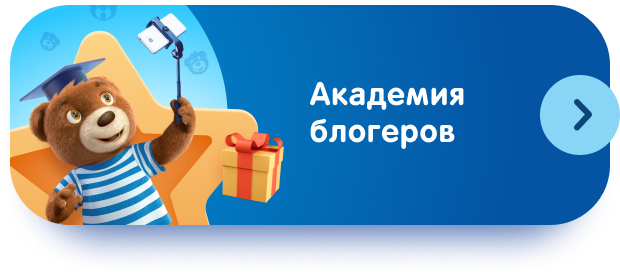
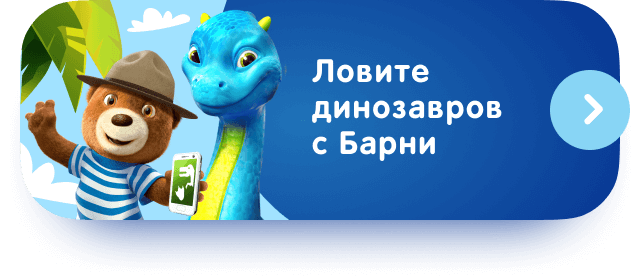
Barni with dino

diff --git a/index.html b/index.html
@@ -57,10 +57,10 @@
                             		<img data-v-5452c966="" src="imgs/choose-action/choose-action-7.png" class="desktop-visible">
                             		<img data-v-5452c966="" src="imgs/choose-action/choose-action-7-mobile.png" class="mobile-visible">
                             	</a> 
-                            	<!-- <a data-v-5452c966="" href="https://xn----7sbc3avdjbgge.xn--p1ai/"> -->
-                            		<!-- <img data-v-5452c966="" src="imgs/choose-action/choose-action-8.png" class="desktop-visible"> -->
-                            		<!-- <img data-v-5452c966="" src="imgs/choose-action/choose-action-8-mobile.png" class="mobile-visible"> -->
-                            	<!-- </a> -->
+                            	  <a data-v-5452c966="" href="https://промо.барни.рф"> 
+                            		<img data-v-5452c966="" src="imgs/choose-action/choose-action-8.png" class="desktop-visible">
+                            		<img data-v-5452c966="" src="imgs/choose-action/choose-action-8-mobile.png" class="mobile-visible">
+                            	 </a>  
                             </div>
                             <!-- <div data-v-5452c966="" class="images-row"> -->
                             	<!-- <a data-v-5452c966="" href="https://xn--80abwto.xn--p1ai/fun-sandwich/"> -->
